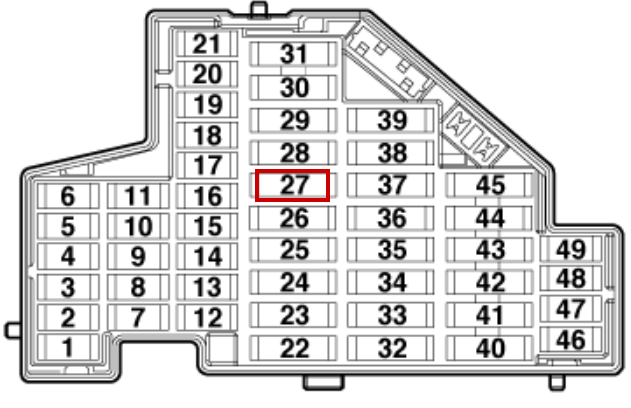
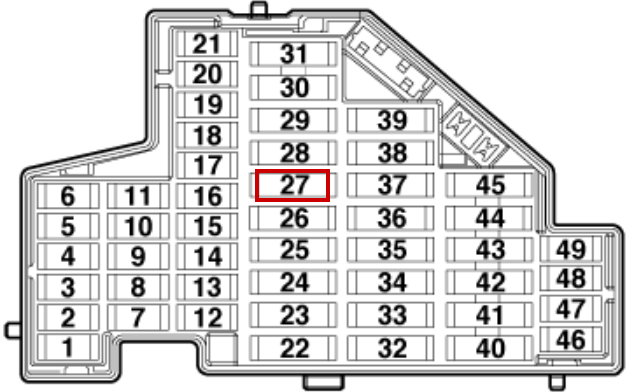
Tighten the fuel pump fuse wording in the compression test.

diff --git a/compression_test.html b/compression_test.html
@@ -120,7 +120,7 @@ figure.drawing img{display:block;width:100%;height:auto;border:1px solid var(--l
   <li>
     <div>
       <div class="t">Disable fuel delivery</div>
-      <div class="h">Remove the fuel pump fuse, typically #27 as shown. Start the engine and let it run until it stalls, so the low-pressure side is depressurized.</div>
+      <div class="h">Remove the fuel pump fuse (#27 as shown). Start the engine and let it run until it stalls.</div>
       <figure class="drawing">
         <img src="images/fuel-pump-relay-fuse.png" alt="Fuse box diagram with fuel pump fuse 27 outlined in red">
         <figcaption>Fuse box (side of instrument cluster)</figcaption>
